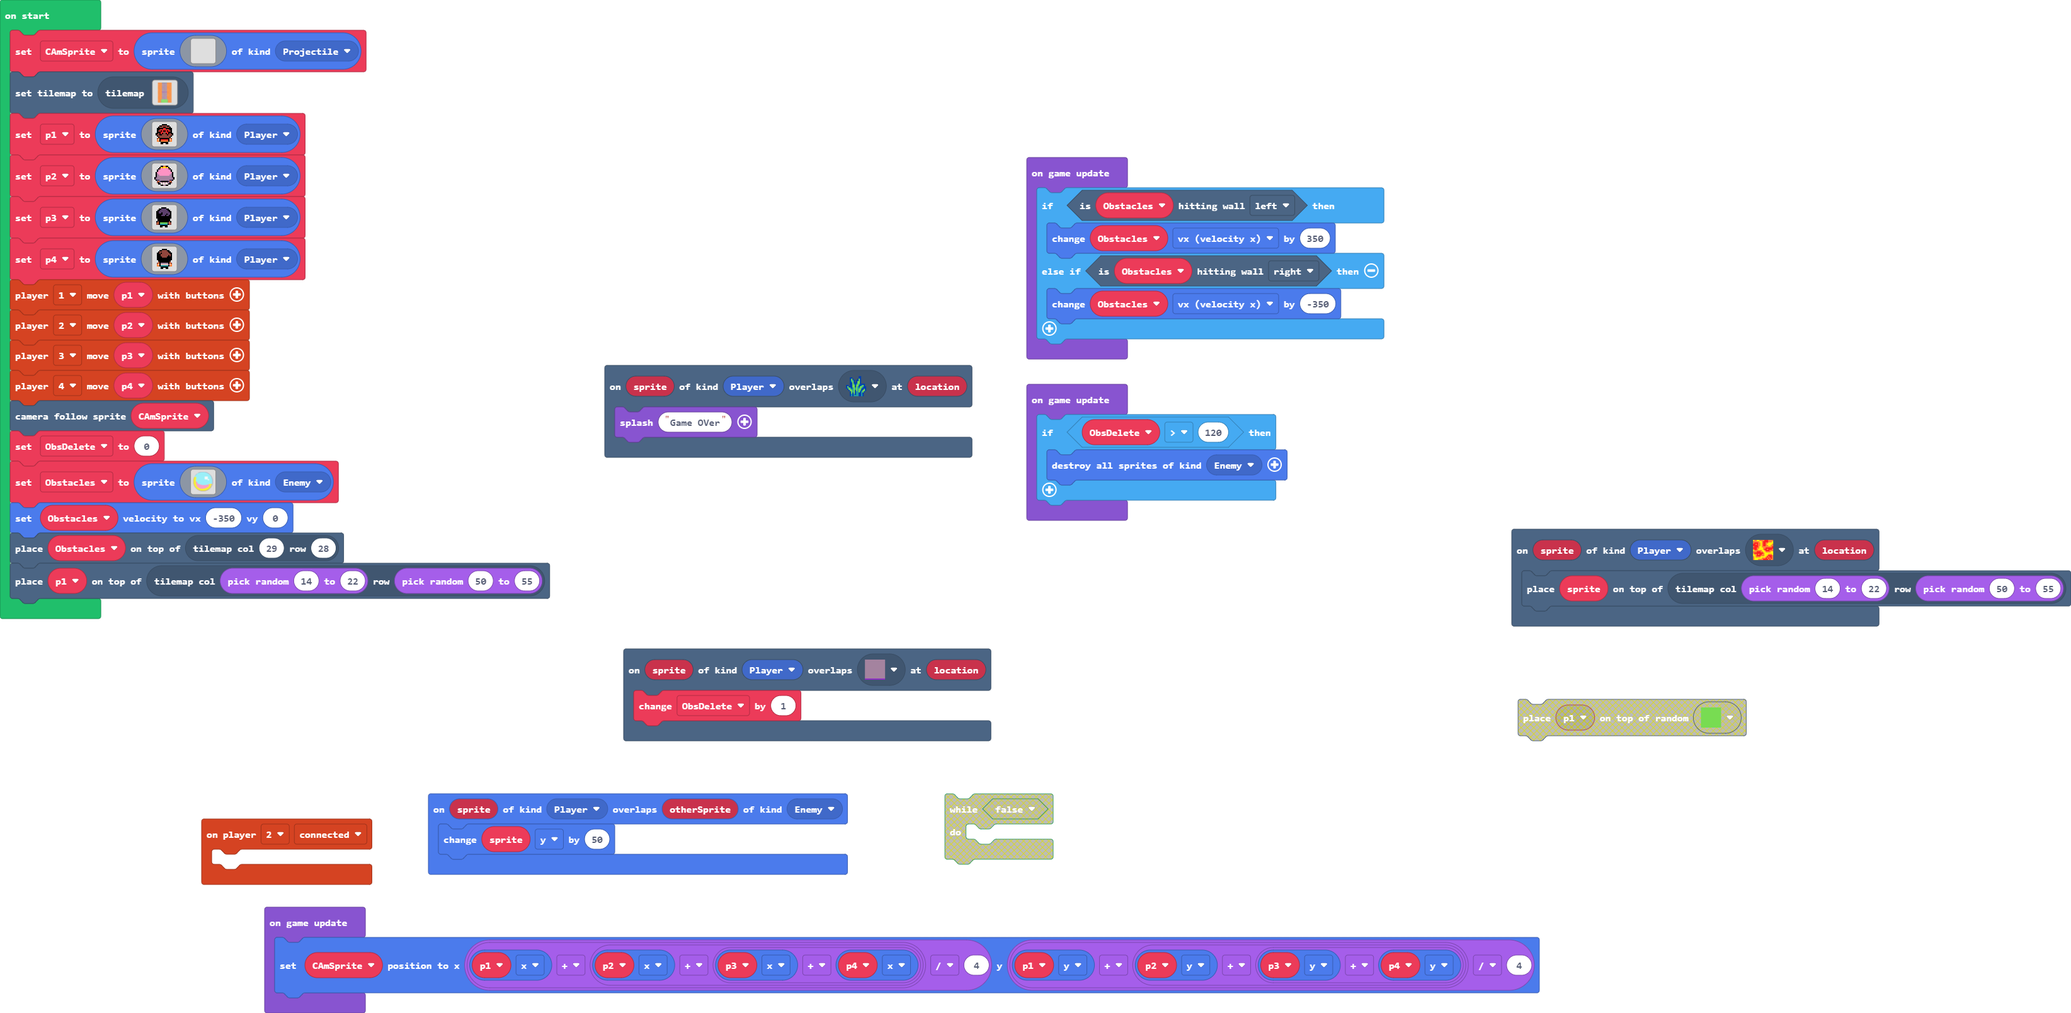
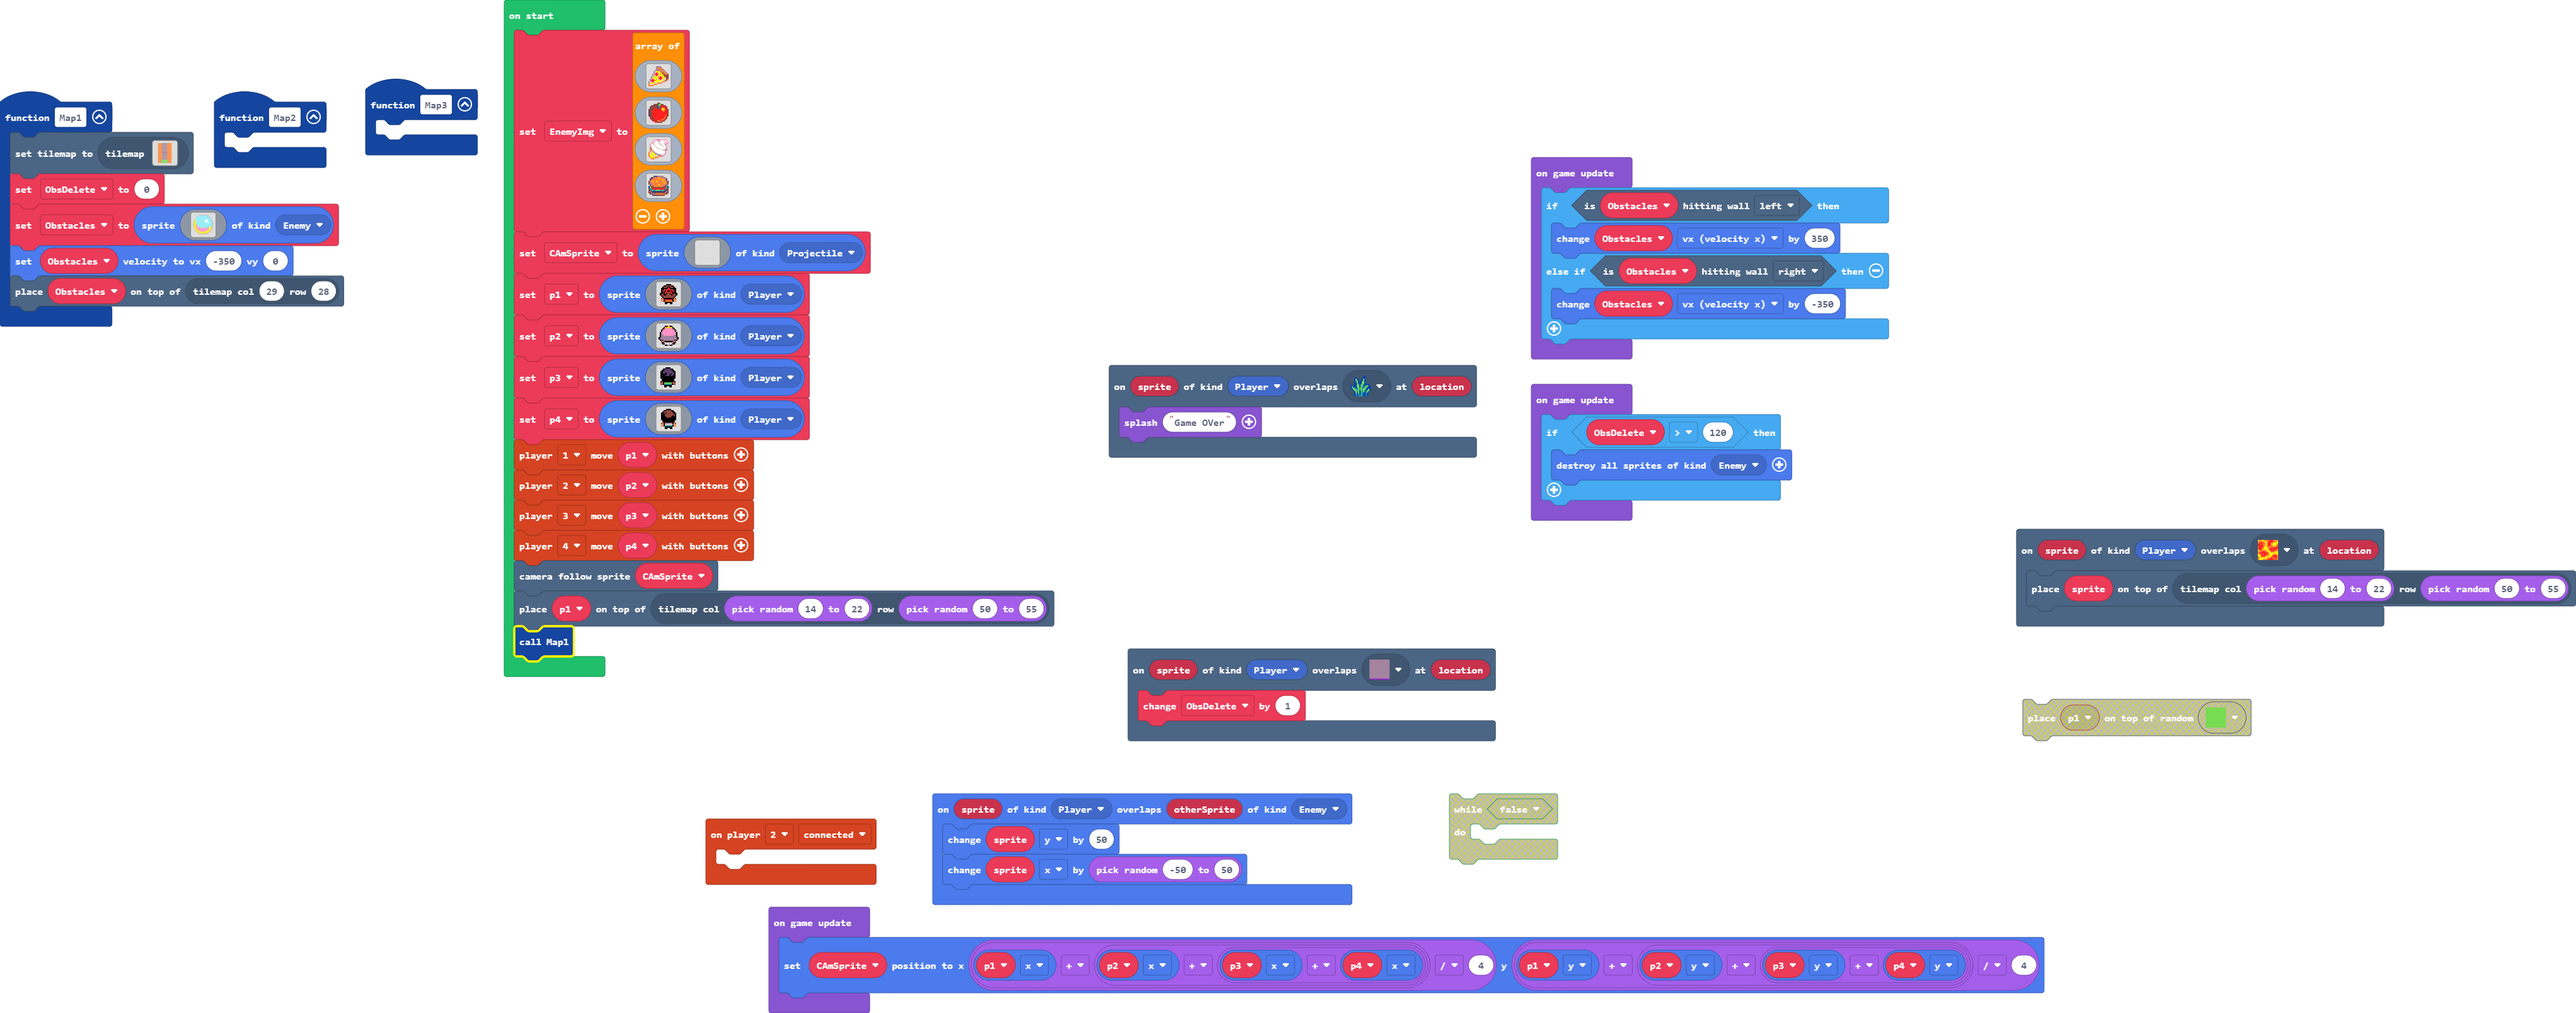
Update main.blocks, main.ts

diff --git a/main.ts b/main.ts
@@ -4,15 +4,170 @@ scene.onOverlapTile(SpriteKind.Player, assets.tile`myTile`, function (sprite, lo
 scene.onOverlapTile(SpriteKind.Player, sprites.swamp.swampTile3, function (sprite, location) {
     game.splash("Game OVer")
 })
+function Map2 () {
+	
+}
 scene.onOverlapTile(SpriteKind.Player, sprites.dungeon.hazardLava1, function (sprite, location) {
     tiles.placeOnTile(sprite, tiles.getTileLocation(randint(14, 22), randint(50, 55)))
 })
+function Map3 () {
+	
+}
+function Map1 () {
+    tiles.setCurrentTilemap(tilemap`level`)
+    ObsDelete = 0
+    Obstacles = sprites.create(img`
+        ........................bbbbbbbbbbbbbbb.........................
+        .....................bbb999999999999999bbb......................
+        ..................bbb999999999999999999999bbb...................
+        ................bb999999999999999999999999999bb.................
+        ..............999999999999999999999999999999999b................
+        ..............9999999999999999999999999999999999bb..............
+        ............b9999999999999999999999999999999999999b.............
+        ..........9b199999999999999999999999999999999999999b............
+        .........9b99999999999999999999999999999999999999999b...........
+        .........b9999999999999999999999999999999999999999999b..........
+        ........b999999999999999999999999999999999999999999999b.........
+        .......b99999999999999999999999999999999999999999999999b........
+        .......9999999999999999999999999999999999999999999999999b.......
+        ......b9999999999999999999999999999999999999999999999999b.......
+        ....99999999999999999999999999999999999999999999999999999b......
+        ....999999999999999999999999999999999111111111199999999999b.....
+        ....955555999999999999999999999999999111111111199999999999b.....
+        ...b5555559999999999999999999999999991111111111999999999999b....
+        ...b5555559999999999999999999999999991111111111999999999999b....
+        ...b5555559999999999999999999999999991111111111999999999999b....
+        ..b555555599999999999999999999999999911111111119999999999999b...
+        ..b555555599999999999999999999999999911111111119999999999999b...
+        ..b555555599999999999999999999999999911111111119999999999999b...
+        .b55555555999999999999999999999999999111111111111119999999999b..
+        .b55555559999999999999999999999999999999999999911119999999999b..
+        .b55555559999999999999999999999999999999999999911119999999999b..
+        .b55555559999999999999999999999999999999999999911119999999999b..
+        .b55555559999999999999999999999999999999999999999999999999999b..
+        .b55555559999999999999999999999999999999999999999999999999999b..
+        .b95555555999999999999999999999999999999999999999999999999999b..
+        .b555555533d9999999999999999999999999999999999999999999999999b..
+        .b55555553339999999999999999999999999999999999999999999999999b..
+        .b55555553339999999999999999999999999999999999999999999999999b..
+        .b5555555333b999999999999999999999999999999999999999999999999b..
+        .b55555553333399999999999999999999999999999999999999999999999b..
+        .b55555553333399999999999999999999999999999999999999999999999b..
+        .b55555553333339999999999999999999999999999999999999999999999b..
+        .b555555553333339999999999999999999999999999999999999ddddd999b..
+        ..b55555553333333399999999999999999999999999999999995dddddd9b...
+        ..b555555533333333333999999999999999999999999999955555555555b...
+        ..b555555533333333333333999999999999999999999933333555555555b...
+        ...b5555555333333333333333339999999999999933333333355555555b....
+        ...b5555555333333333333333333333333333333333333333355555dd5b....
+        ...b5555555333333333333333333333333333333333333333355555dd9b....
+        ....b555555533333333333333333333333333333333333333355555ddb.....
+        ....b555555533333333333333333333333333333333333333555555ddb.....
+        .....b555555533333333333333333333333333333333333355555555b......
+        ......b5555553333333333333333333333333333333333335555555b.......
+        ......b5555555533333333333333333333333333333335555555555b.......
+        .......b55555555333333333333333333333333333335555555555b........
+        ........b555555553333333333333333333333333355555555555b.........
+        .........b5555555553333333333333333333333555555555555b..........
+        ..........b55555555553333333333333333355555555555555b...........
+        ...........b555555555555533333333555555555555555555b............
+        ............b5555555555555555555555555555555555555b.............
+        .............bb555555555555555555555555555555555bb..............
+        ...............b5555555555555555555555555555555b................
+        ................bb555555555555555555555555555bb.................
+        ..................bbb555555555555555555555bbb...................
+        .....................bbb555555555555555bbb......................
+        ........................bbbbbbbbbbbbbbb.........................
+        ................................................................
+        ................................................................
+        ................................................................
+        `, SpriteKind.Enemy)
+    Obstacles.setVelocity(-350, 0)
+    tiles.placeOnTile(Obstacles, tiles.getTileLocation(29, 28))
+}
 controller.player2.onEvent(ControllerEvent.Connected, function () {
 	
 })
 sprites.onOverlap(SpriteKind.Player, SpriteKind.Enemy, function (sprite, otherSprite) {
     sprite.y += 50
+    sprite.x += randint(-50, 50)
 })
+let Obstacles: Sprite = null
+let ObsDelete = 0
+let EnemyImg = [
+img`
+    . . . . . . b b b b . . . . . . 
+    . . . . . . b 4 4 4 b . . . . . 
+    . . . . . . b b 4 4 4 b . . . . 
+    . . . . . b 4 b b b 4 4 b . . . 
+    . . . . b d 5 5 5 4 b 4 4 b . . 
+    . . . . b 3 2 3 5 5 4 e 4 4 b . 
+    . . . b d 2 2 2 5 7 5 4 e 4 4 e 
+    . . . b 5 3 2 3 5 5 5 5 e e e e 
+    . . b d 7 5 5 5 3 2 3 5 5 e e e 
+    . . b 5 5 5 5 5 2 2 2 5 5 d e e 
+    . b 3 2 3 5 7 5 3 2 3 5 d d e 4 
+    . b 2 2 2 5 5 5 5 5 5 d d e 4 . 
+    b d 3 2 d 5 5 5 d d d 4 4 . . . 
+    b 5 5 5 5 d d 4 4 4 4 . . . . . 
+    4 d d d 4 4 4 . . . . . . . . . 
+    4 4 4 4 . . . . . . . . . . . . 
+    `,
+img`
+    . . . . . . . e c 7 . . . . . . 
+    . . . . e e e c 7 7 e e . . . . 
+    . . c e e e e c 7 e 2 2 e e . . 
+    . c e e e e e c 6 e e 2 2 2 e . 
+    . c e e e 2 e c c 2 4 5 4 2 e . 
+    c e e e 2 2 2 2 2 2 4 5 5 2 2 e 
+    c e e 2 2 2 2 2 2 2 2 4 4 2 2 e 
+    c e e 2 2 2 2 2 2 2 2 2 2 2 2 e 
+    c e e 2 2 2 2 2 2 2 2 2 2 2 2 e 
+    c e e 2 2 2 2 2 2 2 2 2 2 2 2 e 
+    c e e 2 2 2 2 2 2 2 2 2 2 4 2 e 
+    . e e e 2 2 2 2 2 2 2 2 2 4 e . 
+    . 2 e e 2 2 2 2 2 2 2 2 4 2 e . 
+    . . 2 e e 2 2 2 2 2 4 4 2 e . . 
+    . . . 2 2 e e 4 4 4 2 e e . . . 
+    . . . . . 2 2 e e e e . . . . . 
+    `,
+img`
+    . . . . . 3 3 b 3 3 d d 3 3 . . 
+    . . . . 3 1 1 d 3 d 1 1 1 1 3 . 
+    . . . 3 d 1 1 1 d 1 1 1 d 3 1 3 
+    . . 3 d d 1 1 1 d d 1 1 1 3 3 3 
+    . 3 1 1 d 1 1 1 1 d d 1 1 b . . 
+    . 3 1 1 1 d 1 1 1 1 1 d 1 1 3 . 
+    . b d 1 1 1 d 1 1 1 1 1 1 1 3 . 
+    . 4 b 1 1 1 1 d d 1 1 1 1 d 3 . 
+    . 4 4 d 1 1 1 1 1 1 d d d b b . 
+    . 4 d b d 1 1 1 1 1 1 1 1 3 . . 
+    4 d d 5 b d 1 1 1 1 1 1 1 3 . . 
+    4 5 d 5 5 b b d 1 1 1 1 d 3 . . 
+    4 5 5 d 5 5 d b b b d d 3 . . . 
+    4 5 5 5 d d d d 4 4 b 3 . . . . 
+    . 4 5 5 5 4 4 4 . . . . . . . . 
+    . . 4 4 4 . . . . . . . . . . . 
+    `,
+img`
+    . . . . c c c b b b b b . . . . 
+    . . c c b 4 4 4 4 4 4 b b b . . 
+    . c c 4 4 4 4 4 5 4 4 4 4 b c . 
+    . e 4 4 4 4 4 4 4 4 4 5 4 4 e . 
+    e b 4 5 4 4 5 4 4 4 4 4 4 4 b c 
+    e b 4 4 4 4 4 4 4 4 4 4 5 4 4 e 
+    e b b 4 4 4 4 4 4 4 4 4 4 4 b e 
+    . e b 4 4 4 4 4 5 4 4 4 4 b e . 
+    8 7 e e b 4 4 4 4 4 4 b e e 6 8 
+    8 7 2 e e e e e e e e e e 2 7 8 
+    e 6 6 2 2 2 2 2 2 2 2 2 2 6 c e 
+    e c 6 7 6 6 7 7 7 6 6 7 6 c c e 
+    e b e 8 8 c c 8 8 c c c 8 e b e 
+    e e b e c c e e e e e c e b e e 
+    . e e b b 4 4 4 4 4 4 4 4 e e . 
+    . . . c c c c c e e e e e . . . 
+    `
+]
 let CAmSprite = sprites.create(img`
     . . . . . . . . . . . . . . . . 
     . . . . . . . . . . . . . . . . 
@@ -31,7 +186,6 @@ let CAmSprite = sprites.create(img`
     . . . . . . . . . . . . . . . . 
     . . . . . . . . . . . . . . . . 
     `, SpriteKind.Projectile)
-tiles.setCurrentTilemap(tilemap`level`)
 let p1 = sprites.create(img`
     . . . . . . f f f f . . . . . . 
     . . . . f f e e e e f f . . . . 
@@ -109,76 +263,8 @@ controller.player2.moveSprite(p2)
 controller.player3.moveSprite(p3)
 controller.player4.moveSprite(p4)
 scene.cameraFollowSprite(CAmSprite)
-let ObsDelete = 0
-let Obstacles = sprites.create(img`
-    ........................bbbbbbbbbbbbbbb.........................
-    .....................bbb999999999999999bbb......................
-    ..................bbb999999999999999999999bbb...................
-    ................bb999999999999999999999999999bb.................
-    ..............999999999999999999999999999999999b................
-    ..............9999999999999999999999999999999999bb..............
-    ............b9999999999999999999999999999999999999b.............
-    ..........9b199999999999999999999999999999999999999b............
-    .........9b99999999999999999999999999999999999999999b...........
-    .........b9999999999999999999999999999999999999999999b..........
-    ........b999999999999999999999999999999999999999999999b.........
-    .......b99999999999999999999999999999999999999999999999b........
-    .......9999999999999999999999999999999999999999999999999b.......
-    ......b9999999999999999999999999999999999999999999999999b.......
-    ....99999999999999999999999999999999999999999999999999999b......
-    ....999999999999999999999999999999999111111111199999999999b.....
-    ....955555999999999999999999999999999111111111199999999999b.....
-    ...b5555559999999999999999999999999991111111111999999999999b....
-    ...b5555559999999999999999999999999991111111111999999999999b....
-    ...b5555559999999999999999999999999991111111111999999999999b....
-    ..b555555599999999999999999999999999911111111119999999999999b...
-    ..b555555599999999999999999999999999911111111119999999999999b...
-    ..b555555599999999999999999999999999911111111119999999999999b...
-    .b55555555999999999999999999999999999111111111111119999999999b..
-    .b55555559999999999999999999999999999999999999911119999999999b..
-    .b55555559999999999999999999999999999999999999911119999999999b..
-    .b55555559999999999999999999999999999999999999911119999999999b..
-    .b55555559999999999999999999999999999999999999999999999999999b..
-    .b55555559999999999999999999999999999999999999999999999999999b..
-    .b95555555999999999999999999999999999999999999999999999999999b..
-    .b555555533d9999999999999999999999999999999999999999999999999b..
-    .b55555553339999999999999999999999999999999999999999999999999b..
-    .b55555553339999999999999999999999999999999999999999999999999b..
-    .b5555555333b999999999999999999999999999999999999999999999999b..
-    .b55555553333399999999999999999999999999999999999999999999999b..
-    .b55555553333399999999999999999999999999999999999999999999999b..
-    .b55555553333339999999999999999999999999999999999999999999999b..
-    .b555555553333339999999999999999999999999999999999999ddddd999b..
-    ..b55555553333333399999999999999999999999999999999995dddddd9b...
-    ..b555555533333333333999999999999999999999999999955555555555b...
-    ..b555555533333333333333999999999999999999999933333555555555b...
-    ...b5555555333333333333333339999999999999933333333355555555b....
-    ...b5555555333333333333333333333333333333333333333355555dd5b....
-    ...b5555555333333333333333333333333333333333333333355555dd9b....
-    ....b555555533333333333333333333333333333333333333355555ddb.....
-    ....b555555533333333333333333333333333333333333333555555ddb.....
-    .....b555555533333333333333333333333333333333333355555555b......
-    ......b5555553333333333333333333333333333333333335555555b.......
-    ......b5555555533333333333333333333333333333335555555555b.......
-    .......b55555555333333333333333333333333333335555555555b........
-    ........b555555553333333333333333333333333355555555555b.........
-    .........b5555555553333333333333333333333555555555555b..........
-    ..........b55555555553333333333333333355555555555555b...........
-    ...........b555555555555533333333555555555555555555b............
-    ............b5555555555555555555555555555555555555b.............
-    .............bb555555555555555555555555555555555bb..............
-    ...............b5555555555555555555555555555555b................
-    ................bb555555555555555555555555555bb.................
-    ..................bbb555555555555555555555bbb...................
-    .....................bbb555555555555555bbb......................
-    ........................bbbbbbbbbbbbbbb.........................
-    ................................................................
-    ................................................................
-    ................................................................
-    `, SpriteKind.Enemy)
-Obstacles.setVelocity(-350, 0)
-tiles.placeOnTile(Obstacles, tiles.getTileLocation(29, 28))
 tiles.placeOnTile(p1, tiles.getTileLocation(randint(14, 22), randint(50, 55)))
+Map1()
 game.onUpdate(function () {
     if (Obstacles.isHittingTile(CollisionDirection.Left)) {
         Obstacles.vx += 350
